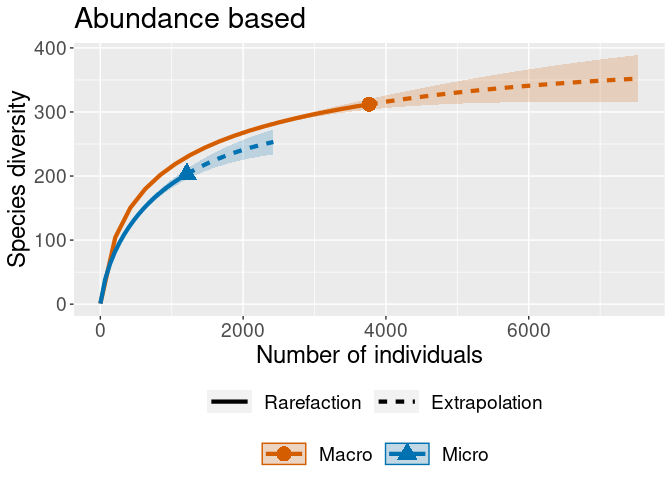
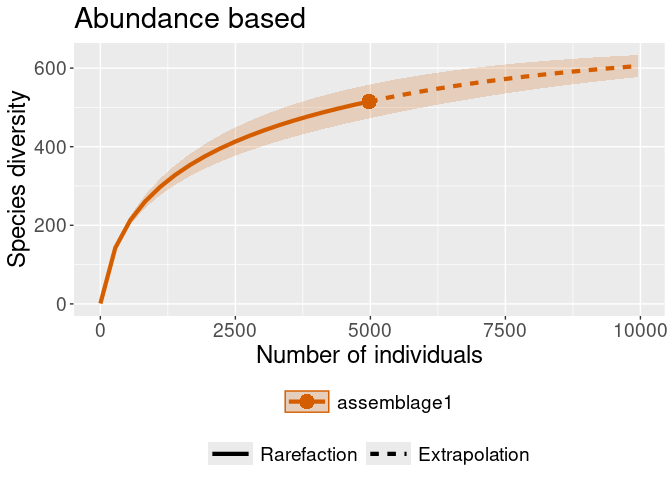
adapt readme to include new assemblage argument

diff --git a/README.md b/README.md
@@ -11,6 +11,7 @@ experimental](https://img.shields.io/badge/lifecycle-experimental-orange.svg)](h
 [![test-coverage](https://github.com/PietrH/vlindersRarefaction/actions/workflows/test-coverage.yaml/badge.svg)](https://github.com/PietrH/vlindersRarefaction/actions/workflows/test-coverage.yaml)
 [![Codecov test
 coverage](https://codecov.io/gh/PietrH/vlindersRarefaction/branch/main/graph/badge.svg)](https://app.codecov.io/gh/PietrH/vlindersRarefaction?branch=main)
+
 <!-- badges: end -->
 
 ## Installation
@@ -31,7 +32,16 @@ package](https://github.com/AnneChao/iNEXT) expects for abundance and
 incidence frequency data.
 
 The package was written with exactly this file in mind as a draft, with
-little flexibility. This means that if your file doesn’t look like this:
+little flexibility. This means that your file will need the following
+columns as a minimum:
+
+- date
+- species_name
+- year
+- number
+
+Any number of extra columns can be provided to split the rarefaction on,
+these are called *assemblages* in the context of iNEXT.
 
     #> Rows: 2,976
     #> Columns: 5
@@ -40,10 +50,6 @@ little flexibility. This means that if your file doesn’t look like this:
     #> $ year         <dbl> 2009, 2009, 2009, 2009, 2010, 2010, 2010, 2010, 2010, 201…
     #> $ number       <dbl> 1, 1, 1, 1, 1, 1, 1, 1, 1, 1, 1, 1, 1, 1, 1, 1, 1, 1, 1, …
     #> $ MicroMacro   <chr> "Micro", "Macro", "Macro", "Macro", "Macro", "Macro", "Ma…
-
-This package will not work for you. Please create an issue if you would
-like to use it on data of a different shape (although at that point I’ll
-probably just rewrite it to accept DarwinCore occurrence inputs).
 
 This is a basic example on how you can plug this package into iNEXT:
 
@@ -63,12 +69,52 @@ rare_out_abun <-
                )
 ## and plot them:
 iNEXT::ggiNEXT(rare_out_abun) + ggplot2::ggtitle("Abundance based")
+#> Warning in ggiNEXT.iNEXT(rare_out_abun): invalid color.var setting, the iNEXT
+#> object do not consist multiple assemblages, change setting as Order.q
 ```
 
 <img src="man/figures/README-example-1.png" width="100%" />
 
 ``` r
 iNEXT::ggiNEXT(rare_out_inc) + ggplot2::ggtitle("Incidence based")
+#> Warning in ggiNEXT.iNEXT(rare_out_inc): invalid color.var setting, the iNEXT
+#> object do not consist multiple assemblages, change setting as Order.q
 ```
 
-<img src="man/figures/README-example-2.png" width="100%" />
+<img src="man/figures/README-example-2.png" width="100%" /> Now with an
+assemblage set:
+
+``` r
+
+# Let's generate some random area's for the observations to belong to.
+warande_gebieden <- warande %>% 
+  dplyr::mutate(gebied =
+                  sample(
+                    c("gebied_a", "gebied_b"),
+                    nrow(warande),
+                    replace = TRUE)
+  )
+
+rare_out_inc_gebied <-
+  iNEXT::iNEXT(convert_to_incidence_freq(warande_gebieden, gebied),
+               datatype = "incidence_freq",
+               nboot = 2 # for speed
+               )
+
+rare_out_abun_micromacro <- 
+    iNEXT::iNEXT(convert_to_abundance(warande, MicroMacro),
+               datatype = "abundance",
+               nboot = 2 # for speed
+               )
+
+## and plot them:
+iNEXT::ggiNEXT(rare_out_inc_gebied) + ggplot2::ggtitle("Incidence based, with areas")
+```
+
+<img src="man/figures/README-example with assemblage-1.png" width="100%" />
+
+``` r
+iNEXT::ggiNEXT(rare_out_abun_micromacro) + ggplot2::ggtitle("Abundance based, split on Micro/Macro")
+```
+
+<img src="man/figures/README-example with assemblage-2.png" width="100%" />
